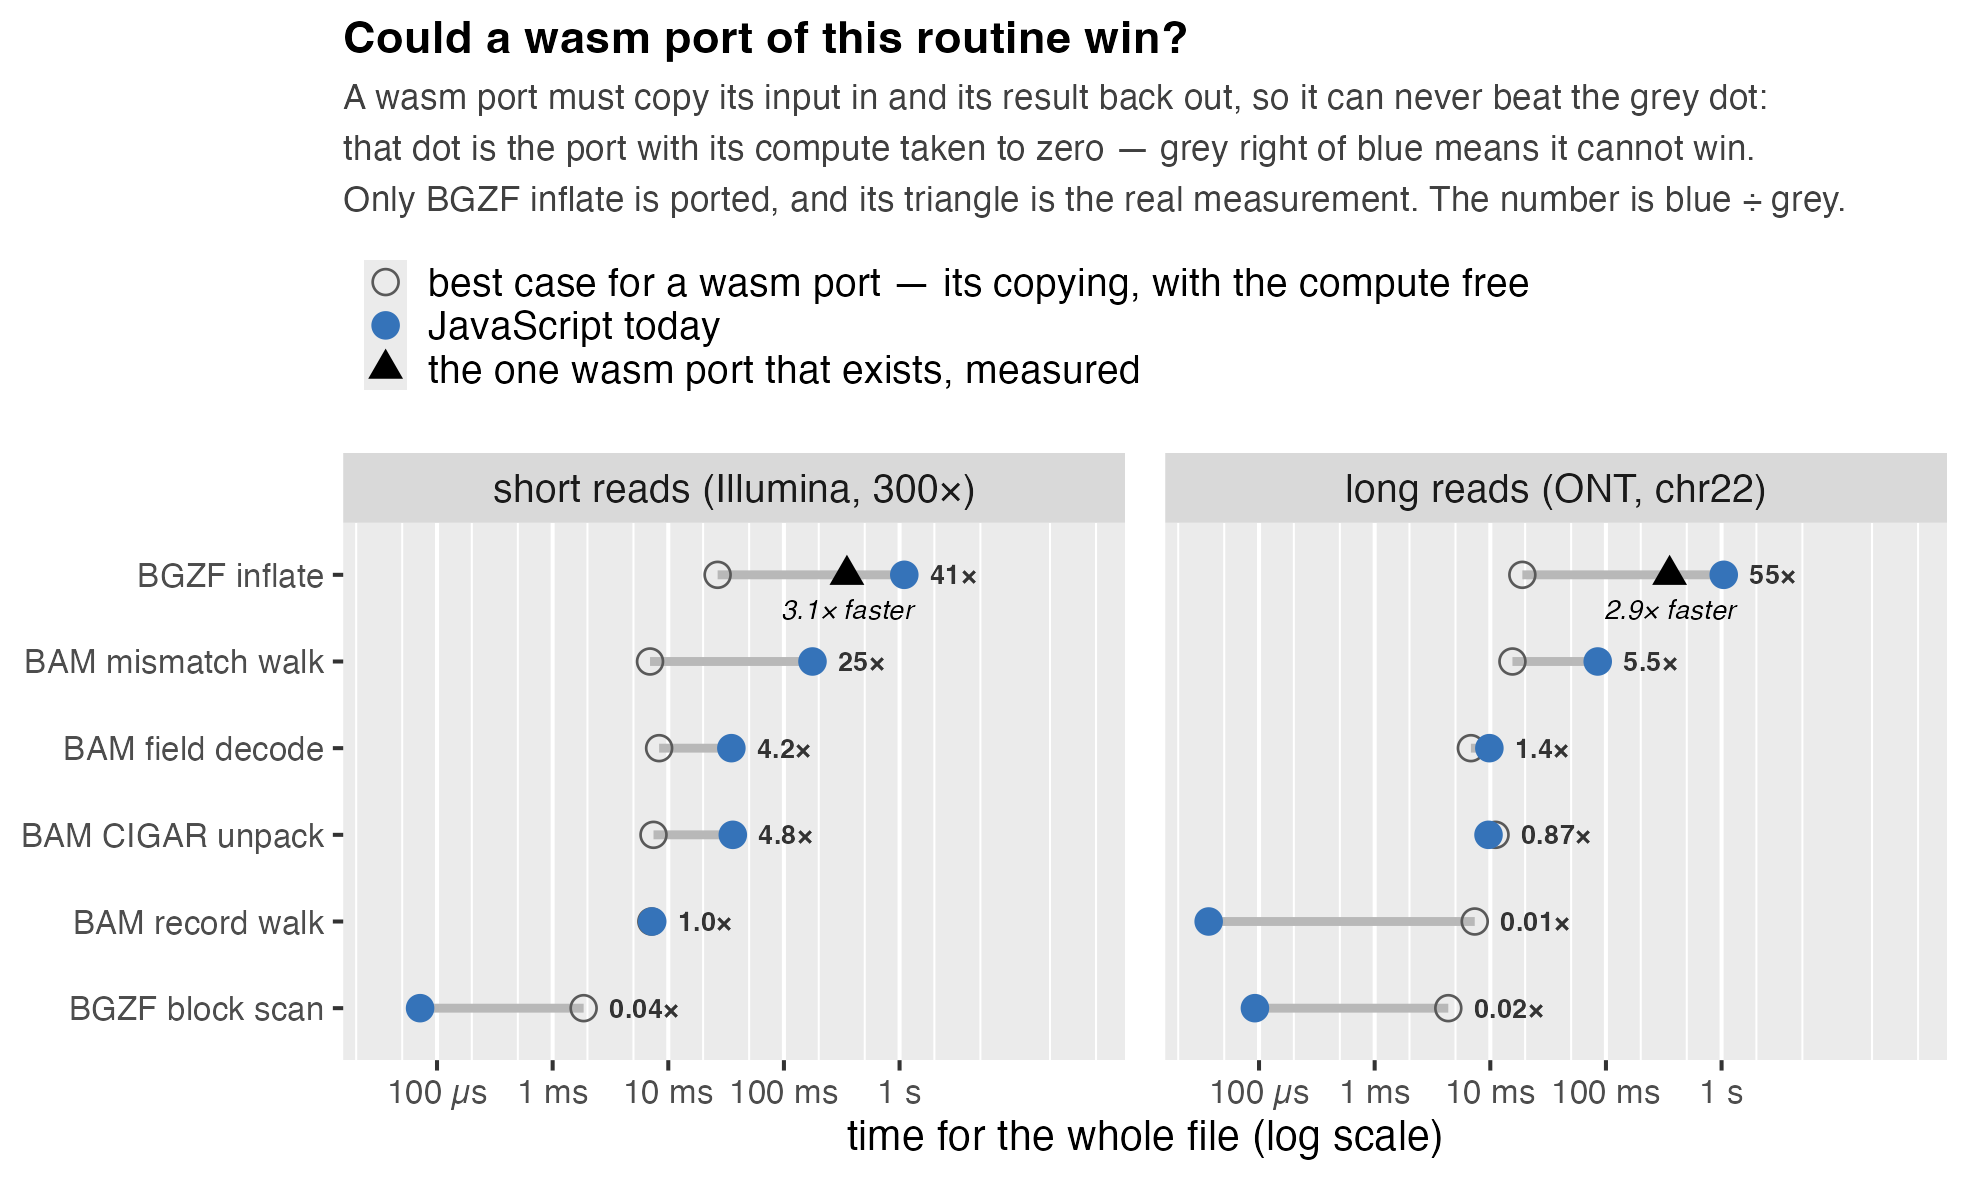
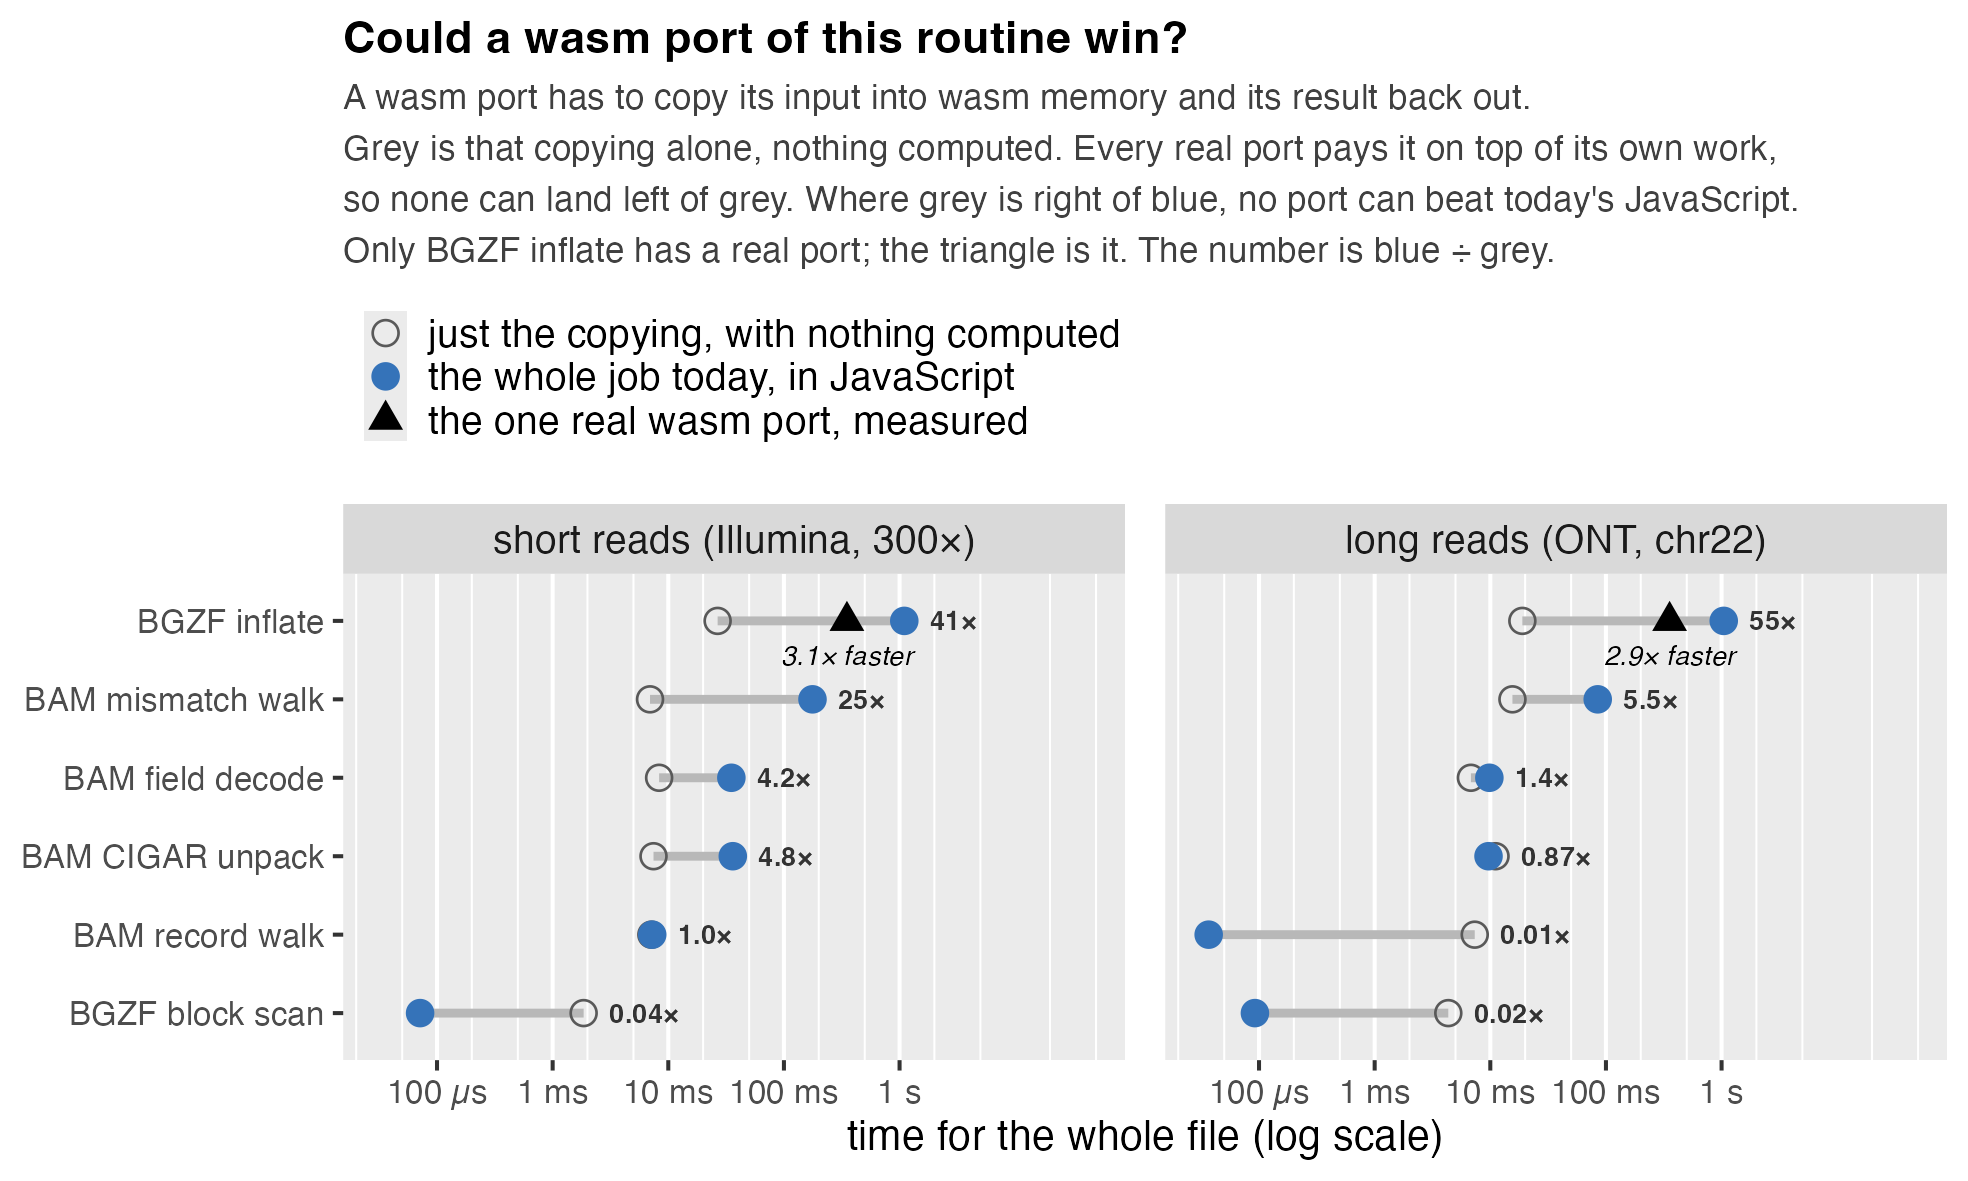
wasmgate: say what the grey dot is in words that survive a reader
"The port with its compute taken to zero" is exact and means nothing to anyone
who has not already followed the argument, which is most readers of a figure.
Reported as not understood, and the report was right.

What the grey dot IS, concretely: allocate a buffer inside the wasm module's
memory, memcpy the input into it, call a wasm function that returns immediately
and does nothing, memcpy the result-sized bytes back out, free. No inflating, no
parsing -- just the shuttling of bytes. So the legend now says "just the copying,
with nothing computed" and the subtitle spells the inference out in four short
lines instead of asserting it in one abstract one.

results/wasmgate.md gets the same treatment: the five steps written out, and the
sentence about a port never coming in under them stated after the thing it is
about rather than before.

No measurement changed.

Claude-Session: https://claude.ai/code/session_01MYRAtKHfbMJEZ1JKyRDCLL

diff --git a/results/wasmgate.md b/results/wasmgate.md
@@ -20,17 +20,20 @@ Rust/libdeflate wasm inflate and a `pako-esm2` one, so it alone has a real wasm
 measurement. Nothing was written in Rust to produce the other five rows, and
 nothing needed to be.
 
-A wasm port's time is *copy in + compute + copy out*. Take the compute to zero
-and what is left — the two copies and the boundary crossing — is still a real,
-measurable quantity, and no implementation of that routine can come in under it.
-So the copy alone decides the question whenever it already exceeds what
-JavaScript costs today:
+A wasm port's time is *copy in + compute + copy out*. The two copies can be
+measured on their own, without writing the port: allocate a buffer inside the
+wasm module's memory, memcpy the input into it, call a wasm function that returns
+immediately and does nothing, memcpy the result-sized bytes back out, free. No
+inflating, no parsing — just the shuttling of bytes. Every real port does all of
+that *and* the actual work, so none of them can come in under it, and the copy
+alone decides the question whenever it already exceeds what JavaScript costs
+today:
 
 > If moving a routine's bytes across the boundary takes longer than doing the
 > whole job in JavaScript, no wasm port of it can win, however fast the wasm is.
 
-That is what the grey dot on the figure is: **the port with its compute free**,
-not a measurement of any port. It is why five rows can be settled without
+That is what the grey dot on the figure is: **the copying, measured with nothing
+computed** — not a measurement of any port. It is why five rows can be settled without
 writing them, and the ported row is the check that the model holds — its real
 measurement lands between the bound and the JavaScript, where it must.
 
